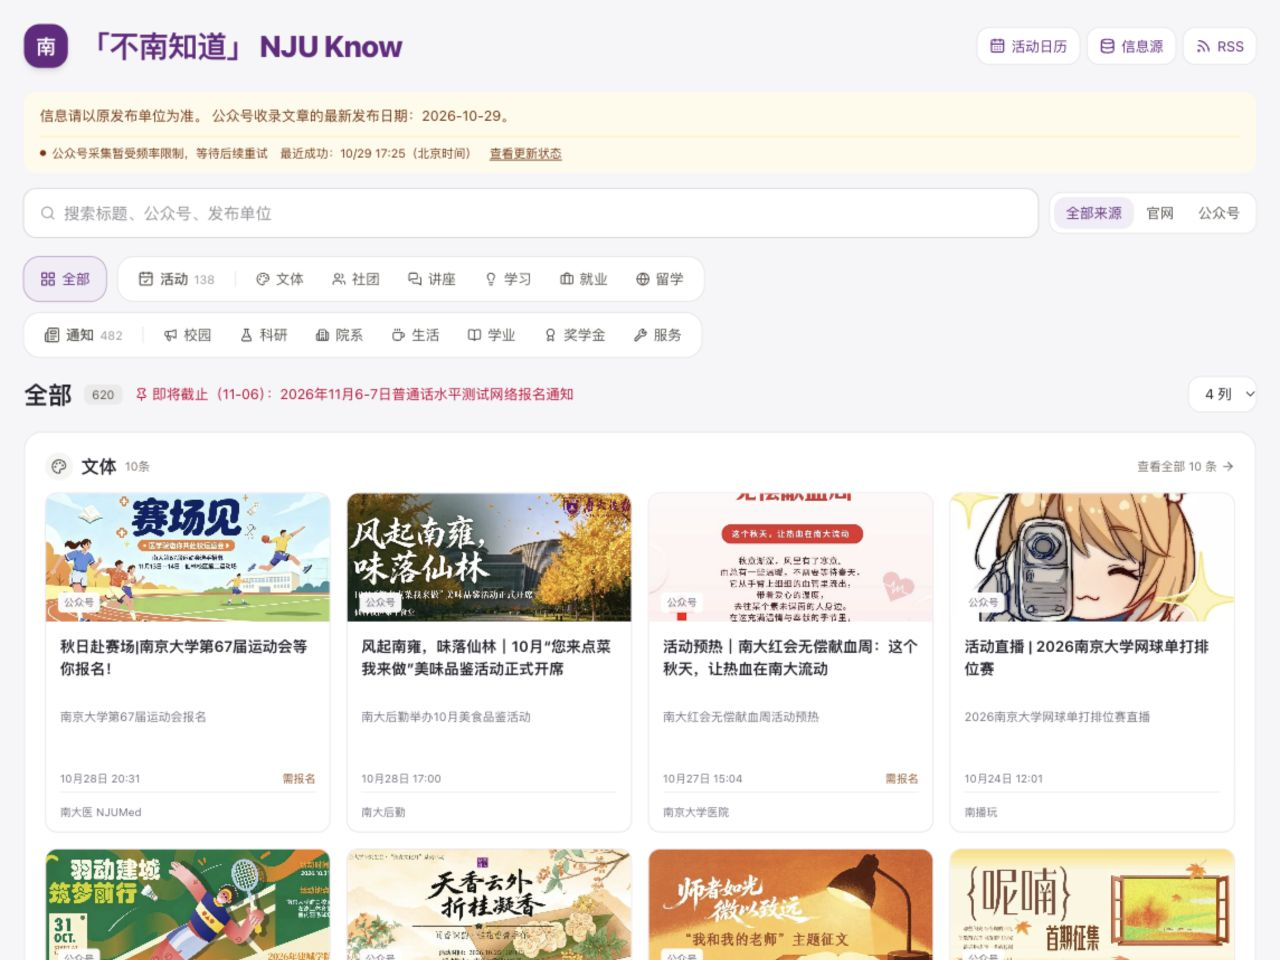
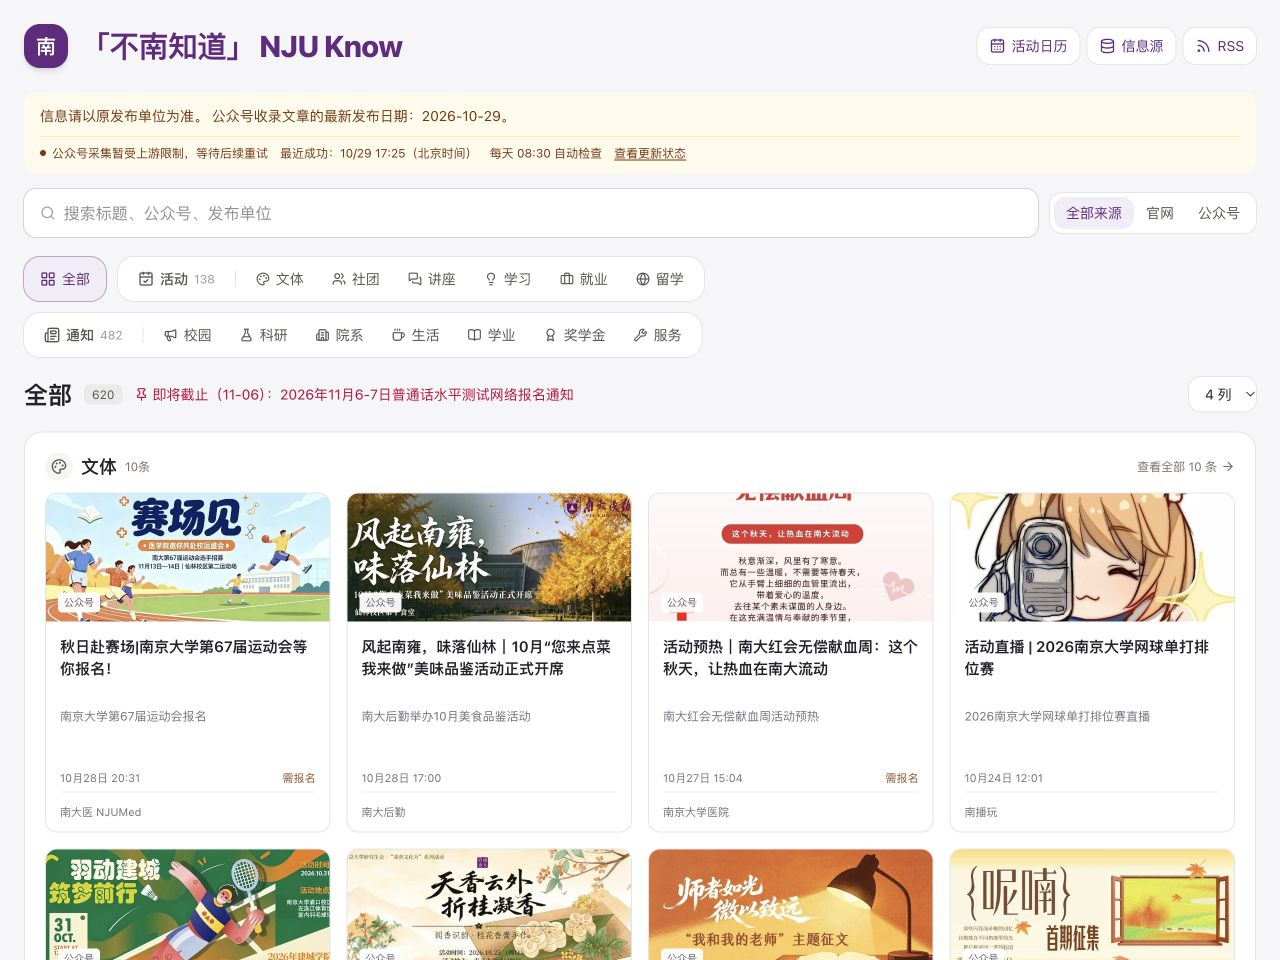
Document the daily WeChat plan and tomorrow verification steps [skip ci]

diff --git a/docs/wechat-local.md b/docs/wechat-local.md
@@ -6,10 +6,10 @@
 
 ## 云端模式
 
-在 GitHub Actions Variables 中设置 `WECHAT_PROVIDER=cloud`，使用现有的每 3 小时工作流：
+在 GitHub Actions Variables 中设置 `WECHAT_PROVIDER=cloud`，公众号每天北京时间 08:30 采集一次；官网仍每 3 小时检查。代码发布、普通手动运行与官网定时更新均跳过公众号请求，只有每日计划或明确勾选 collect_wechat 的手动运行才会采集：
 
 ```text
-GitHub Actions 定时运行
+GitHub Actions 每日公众号计划
   → 安装固定版本采集模块
   → 从 Secret 和加密缓存恢复微信读书授权
   → 采集公众号 + 抓取官网
@@ -48,7 +48,7 @@ uv pip install --python .local/wechat-collector/.venv/bin/python -r requirements
 .local/wechat-collector/.venv/bin/python upload_wechat_auth.py --upload --repo ZhangYitian-world/nju-know
 ```
 
-此命令会把必要登录凭据发送到指定仓库的 `WECHAT_CLOUD_AUTH` Secret；不打印私密值，也不把 Secret 放入代码。新密钥会安全地替代旧授权缓存。然后在 Actions 中手动运行 Build and Deploy，查看真实来源采集结果。
+此命令会把必要登录凭据发送到指定仓库的 `WECHAT_CLOUD_AUTH` Secret；不打印私密值，也不把 Secret 放入代码。新密钥会安全地替代旧授权缓存。然后在 Actions 中手动运行 Build and Deploy，明确勾选 collect_wechat，查看真实来源采集结果。普通手动运行默认只更新网站，不会采集公众号。
 
 ## 本机模式和旧服务
 
@@ -70,16 +70,22 @@ uv pip install --python .local/wechat-collector/.venv/bin/python -r requirements
 
 连续两个来源触发明确频率限制时，暂停本轮后续请求并保留未完成来源；明确授权失效或微信验证则立即暂停。受限后至少冷却 30 分钟，期间仅发布代码的运行不会再次请求上游，也不算作新一次采集失败。下一轮定时运行到达后再尝试。
 
-采集按每 3 小时的周期保存公开检查点：每完成一个来源就写入文章与进度，同一周期内重跑会跳过已成功的来源，失败或未完成的来源继续补采。进入新周期重新检查，不使用“当天成功就整天跳过”的策略。配置变化也会重新检查。检查点和健康摘要均不含登录凭据，与授权密文缓存分开。
+采集按北京时间自然日保存公开检查点：每完成一个来源就写入文章与进度，同一周期内重跑会跳过已成功的来源，失败或未完成的来源继续补采。进入新周期重新检查，适配每日一次计划。配置变化也会重新检查。检查点和健康摘要均不含登录凭据，与授权密文缓存分开。
 
-首页和信息源页展示最近成功采集时间。页面每分钟按当前时间判断：超过 8 小时没有成功采集时显示同步延迟；每 5 分钟尝试读取公开健康摘要，打开着的页面也能跟随部署更新。公众号没有发布新文章不等于采集失败。
+首页和信息源页展示最近成功采集时间。页面每分钟按当前时间判断：超过 32 小时没有成功采集时显示同步延迟；每 5 分钟尝试读取公开健康摘要，打开着的页面也能跟随部署更新。公众号没有发布新文章不等于采集失败。
 
 只有接口明确认证失败且自动续期未恢复时，才记录“登录需重新授权”。微信验证、频率限制和普通暂不可用分别显示；接口信息不足时不猜测为授权过期。新增文章数表示相对上次保留的公开数据快照新收录的数量。
 
-工作流的“公众号健康检查”在页面部署之后独立执行：明确授权／验证问题立即失败；连续两轮完全未成功或超过 8 小时未成功也失败。网站仍可部署已有内容。邮件由 GitHub 自带通知发送，需账号在 Settings → Notifications 中开启 Actions 的失败通知，详情见 [GitHub 官方说明](https://docs.github.com/en/subscriptions-and-notifications/how-tos/managing-github-actions-notifications)。没有新增邮件服务或密钥。
+工作流的“公众号健康检查”在页面部署之后独立执行：明确授权／验证问题立即失败；连续两轮完全未成功或超过 32 小时未成功也失败。网站仍可部署已有内容。邮件由 GitHub 自带通知发送，需账号在 Settings → Notifications 中开启 Actions 的失败通知，详情见 [GitHub 官方说明](https://docs.github.com/en/subscriptions-and-notifications/how-tos/managing-github-actions-notifications)。没有新增邮件服务或密钥。
 
 若整个工作流停跑，旧页面仍能按时间显示延迟；GitHub 失败邮件依赖工作流实际运行，并不是独立于 GitHub 的外部监控。
 
 ## 候选来源验证
 
 wechat_candidates.json 只保存待核验的公开公众号名称与标识，不自动加入正式来源。手动运行 Verify candidate WeChat sources 工作流，会使用既有加密授权检查这些候选，公开结果保存在 wechat-candidate-results artifact 中，不部署网站、不覆盖正式公开文章缓存。仅验证通过的来源才加入 wechat_sources.json。
+
+## 明天怎样确认恢复
+
+每天 08:30（北京时间）尝试公众号采集，GitHub 排队时可能延迟。09:00 以后可检查当日运行的“云端采集公众号”步骤是否实际执行、成功来源数量，以及网站“最近成功”是否推进到当日。新收录数为零仍可能采集正常，不能只看是否有新文章。未实际尝试时应说明排队／未运行；仍为上游受限时应说明未恢复，不把部署成功当作恢复。
+
+每日计划的延迟告警阈值是 32 小时，给正常的每日间隔留出 8 小时余量。已存在的请求受限或授权异常会持续显示，改计划不会将其变成正常。

diff --git a/README.md b/README.md
@@ -17,7 +17,7 @@
 - **辅助分类与摘要**：DeepSeek 已完成真实接入；Jev 适配已实现，配置密钥后可与 DeepSeek 协作。没有密钥或判断不确定时使用规则分类。
 - **合并重复信息**：按原文链接、规范化标题及保守的近似标题规则合并转载，保留各发布单位与原始链接。
 - **适配电脑与手机**：等高卡片、统一封面与元信息位置，支持切换列数。
-- **自动更新**：GitHub Actions 每 3 小时采集公众号、检查官网、分类并发布，不依赖个人电脑开机，提供来源状态、活动日历和 RSS。
+- **自动更新**：公众号每天北京时间 08:30 采集，官网每 3 小时检查，GitHub Actions 分类并发布，不依赖个人电脑开机，提供来源状态、活动日历和 RSS。
 
 活动分类：文体、社团、讲座、学习、就业、留学。
 
@@ -111,9 +111,11 @@ GitHub Secrets 与本地 `.env` 相互独立，不会自动同步。官网抓取
 
 官网与模型结果通过独立的 Actions Cache 在运行之间保存。单个来源失败时保留其未过期内容；模型失败时回退规则。模型缓存包含输入指纹、版本、提供方和模型名，未变化的文章不重复调用；低置信度也会缓存。每轮最多处理 100 条，未完成的内容在后续轮次继续处理。
 
-首页提供公众号同步状态与最近成功时间；超过 8 小时未成功采集时，旧页面也会按当前时间显示同步延迟。采集支持周期内断点续跑，来源异常分别记录。部署后的独立健康检查可触发 GitHub 失败通知；邮件需在账号通知设置中启用，详见[采集说明](docs/wechat-local.md)。
+首页提供公众号同步状态与最近成功时间；超过 32 小时未成功采集时，旧页面也会按当前时间显示同步延迟。采集支持周期内断点续跑，来源异常分别记录。部署后的独立健康检查可触发 GitHub 失败通知；邮件需在账号通知设置中启用，详见[采集说明](docs/wechat-local.md)。
 
 工作流因“公众号健康检查”报错时，构建与部署仍可能已经成功；请查看失败任务与网站状态，不能仅凭绿色部署判断采集正常。
+
+发布代码和普通手动运行不会请求公众号接口；如确需立即采集，在 Run workflow 中明确勾选 `collect_wechat`。更改计划不会修改最近成功时间或掩盖已有异常。
 
 定时运行可能因 GitHub 排队而延迟；长期无仓库活动也可能导致定时工作流停用，可在 Actions 页面检查和恢复。
 

diff --git a/web/README.md b/web/README.md
@@ -16,7 +16,7 @@ npm run build   # 静态导出到 out/
 
 GitHub Actions 每三小时抓取公众号与官网通知，使用 Node.js 24 构建，将 `web/out` 部署到 GitHub Pages。自定义域名使用根路径，Next.js 不设置 `basePath`。若切回默认项目站地址 `https://zhangyitian-world.github.io/nju-know/`，需配置 `basePath: "/nju-know"` 并重新构建。
 
-公众号支持 GitHub Actions 每 3 小时云端采集，电脑关机也可继续更新。模式由 Actions Variables 中的 `WECHAT_PROVIDER=cloud` 控制，授权种子与加密密钥放在 `WECHAT_CLOUD_AUTH` Secret，跨构建只缓存授权密文；详见[采集说明](../docs/wechat-local.md)。本机扫码用于初次授权和到期后的重新授权，不要把登录凭据提交到仓库、日志或网站。旧 WeRSS 适配仍保留作可选方案。
+公众号支持 GitHub Actions 每天北京时间 08:30 云端采集；官网仍每 3 小时检查，发布代码不会触发公众号采集，电脑关机也可继续更新。模式由 Actions Variables 中的 `WECHAT_PROVIDER=cloud` 控制，授权种子与加密密钥放在 `WECHAT_CLOUD_AUTH` Secret，跨构建只缓存授权密文；详见[采集说明](../docs/wechat-local.md)。本机扫码用于初次授权和到期后的重新授权，不要把登录凭据提交到仓库、日志或网站。旧 WeRSS 适配仍保留作可选方案。
 
 云端分类由 `enrich_llm.py` 在每次抓取后执行。双模型模式需要在 GitHub Actions Secrets 配置以下两项：
 
